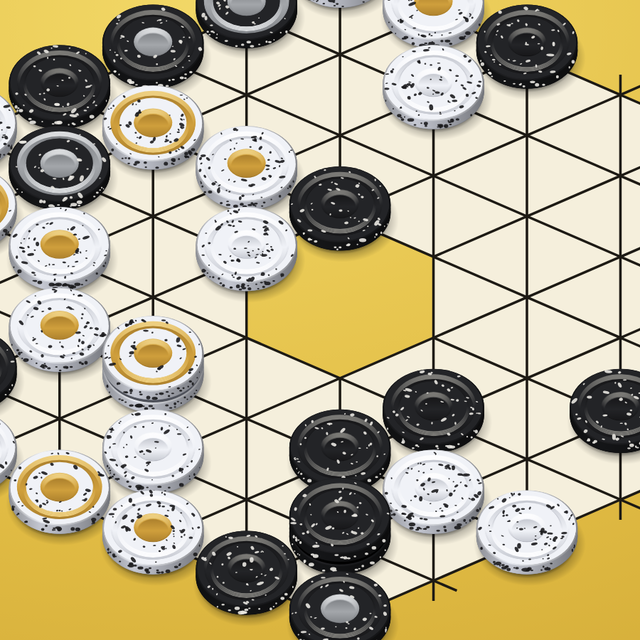
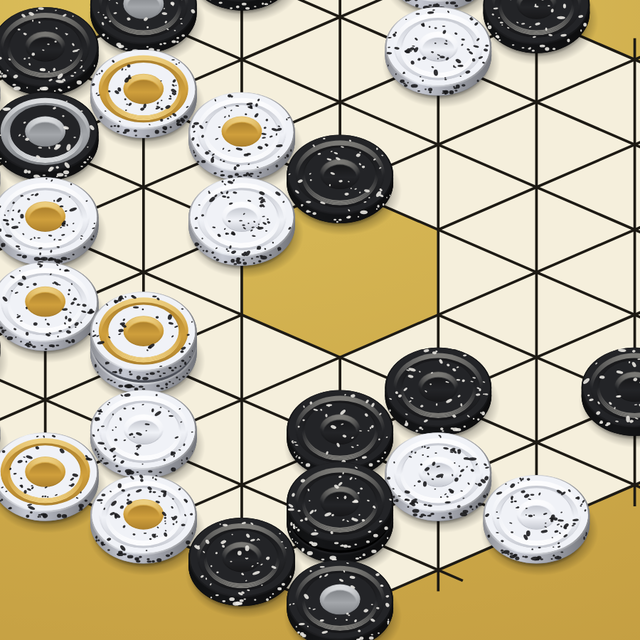
Settle TZAAR stacks before thinning them, and warm the table to the rulebook's sand
A stacking that takes a stack past the height limit now lands and bounces
at the full height, then shrinks to the limit, instead of the stack being
thinned the moment the moving pieces touch down. The table takes the sand
of the rulebook's cover, which photos show the board's own gold matches,
in place of a brighter lemon gold, and the cover is re-rendered on it. The
player cards drop their "on top" caption, which phones cut off.

Claude-Session: https://claude.ai/code/session_01T2Axx5HCwVKnkzeRZ5ZsuR

diff --git a/games/tzaar-ui/src/lib/animators/boardAnimator.svelte.ts b/games/tzaar-ui/src/lib/animators/boardAnimator.svelte.ts
@@ -12,7 +12,7 @@ import type { TzaarGameSession } from '$lib/model/session.svelte.js'
 import { boardDiff, spacesBetween, type StackMotion } from '$lib/board/boardDiff.js'
 import { coordsKey, type BoardView } from '$lib/board/geometry.js'
 import { FALL_EASE, GROUND_EASE, hopPlan, RISE_EASE } from '$lib/board/hop.js'
-import { restingLift } from '$lib/board/pieceGeometry.js'
+import { restingLift, type PieceModel } from '$lib/board/pieceGeometry.js'
 
 // A page load, a sync with the server or a switch of view shows the board as it is, unmoved.
 const ANIMATED_KINDS: ReadonlySet<TransitionKind> = new Set<TransitionKind>([
@@ -40,6 +40,10 @@ const BOUNCE = {
     along: [1, -0.4, 0],
     step: 0.08
 }
+const BOUNCE_TIME = BOUNCE.lift.reduce((total, { duration }) => total + duration, 0)
+// A stack grown past the full height settles at its new height, then shrinks to the full
+// height as the pieces between its bottom and top thin out.
+const SHRINK = { duration: 0.3, ease: 'power2.inOut' }
 // Landing on the board itself, the stack rebounds along the hop: past the space, back, forward.
 const REBOUND = { along: [2.4, -1.2, 0.45, 0], step: 0.07 }
 // A captured stack floats straight up as it fades, while the capturing stack hops in; its shadow
@@ -81,6 +85,8 @@ export class BoardAnimator {
     // up, so each animated action leaves the board as it ended until that state lands.
     stacks: DrawnStack[] = $derived.by(() => drawnStacks(this.session.gameState))
     flier: Flier | undefined = $state()
+    // The stack shrinking to the full height, and the height it stands at so far.
+    private shrinking: { key: string; cap: number } | undefined = $state()
 
     private readonly stackParts = new Map<string, Parts>()
     private flierParts: Parts = {}
@@ -190,6 +196,7 @@ export class BoardAnimator {
         animationContext.afterAnimations(() => {
             this.stacks = drawnStacks(to)
             this.flier = undefined
+            this.shrinking = undefined
             for (const node of touched) {
                 gsap.set(node, { x: 0, y: 0, scale: 1, opacity: 1 })
             }
@@ -292,16 +299,13 @@ export class BoardAnimator {
         const landed = at + plan.duration
         timeline.to({}, { duration: plan.duration, onUpdate: occlude }, at)
 
-        // A stack grown past the full height is thinned the moment it lands, so it does not
-        // bounce: the board takes over the whole stack at once.
-        const thinned =
-            moved.landingOn > 0 && moved.landingOn + moved.pieces.length > layout.model.cap
-        if (thinned) {
-            timeline.call(() => this.land(before, moved), undefined, landed)
-        }
-        if (!quick && !thinned) {
+        if (!quick) {
             if (plan.endLift === 0) this.rebound(node, offset, timeline, landed)
             else this.bounce(node, body, offset, plan.endLift, timeline, landed)
+        }
+        const { cap } = layout.model
+        if (moved.landingOn > 0 && moved.landingOn + moved.pieces.length > cap) {
+            this.shrink(before, moved, cap, timeline, quick ? landed : landed + BOUNCE_TIME, quick)
         }
         return landed
     }
@@ -312,6 +316,46 @@ export class BoardAnimator {
         for (const [use, { y, top }] of this.occluders) {
             use.style.display = y > groundY + 0.5 && lift > top ? '' : 'none'
         }
+    }
+
+    // Once the moving stack has settled, the board takes over the whole stack, drawn as tall as
+    // the two stood, and shrinks it to the full height; quickly, it is drawn thinned at once.
+    private shrink(
+        before: HydratedTzaarGameState,
+        moved: StackMotion,
+        cap: number,
+        timeline: Timeline,
+        at: number,
+        quick: boolean
+    ) {
+        const key = coordsKey(moved.to)
+        const height = { cap: quick ? cap : Math.min(moved.landingOn, cap) + moved.pieces.length }
+        timeline.call(
+            () => {
+                this.land(before, moved)
+                this.shrinking = { key, cap: height.cap }
+            },
+            undefined,
+            at
+        )
+        if (quick) return
+        timeline.to(
+            height,
+            {
+                cap,
+                ...SHRINK,
+                onUpdate: () => {
+                    this.shrinking = { key, cap: height.cap }
+                }
+            },
+            at
+        )
+    }
+
+    // The model a stack is drawn with: the board's, or while it shrinks, one at the height it
+    // has shrunk to. Other stacks keep the board's own model, so they are not redrawn.
+    modelAt(key: string, model: PieceModel): PieceModel {
+        return this.shrinking?.key === key ? { ...model, cap: this.shrinking.cap } : model
     }
 
     // The landed stack drawn whole on its space.

diff --git a/games/tzaar-ui/src/app.css b/games/tzaar-ui/src/app.css
@@ -40,10 +40,11 @@
 }
 
 :root {
-    /* The 2016 rulebook's golden sand, glowing lighter towards the middle. */
-    --tzaar-table-glow: #f2d867;
-    --tzaar-table: #e2bd45;
-    --tzaar-table-deep: #c49a2a;
+    /* The 2016 rulebook's golden sand, sampled from its cover (the board's own gold in photos
+       matches it), glowing lighter towards the middle. */
+    --tzaar-table-glow: #ddc15d;
+    --tzaar-table: #cca848;
+    --tzaar-table-deep: #b88f38;
     /* Controls and cards sit on cream like the play area's, lifted by a soft shadow. */
     --tzaar-panel: #f3ecd8;
     --tzaar-panel-edge: rgb(80 60 10 / 0.18);

diff --git a/games/tzaar-ui/src/lib/components/Board.svelte b/games/tzaar-ui/src/lib/components/Board.svelte
@@ -117,7 +117,7 @@
                     pieces={stack.pieces.map((piece) => session.shapeOf(piece))}
                     {radius}
                     prefix="tzaar-board"
-                    model={layout.model}
+                    model={animator.modelAt(stack.key, layout.model)}
                 >
                     <!-- A mark recolors a ring on the top piece, under the count, so the count
                          stays whole. The animator fades it with the move. -->

diff --git a/games/tzaar-ui/src/lib/components/PlayerTray.svelte b/games/tzaar-ui/src/lib/components/PlayerTray.svelte
@@ -49,7 +49,9 @@
                 <PieceIcon {tone} {kind} size={34} />
             </div>
         {/each}
-        <span class="caption">{placing ? 'left' : 'on top'}</span>
+        {#if placing}
+            <span class="caption">left</span>
+        {/if}
     </div>
 </div>
 

diff --git a/games/tzaar-ui/docs/ui-interaction-visual-contract.md b/games/tzaar-ui/docs/ui-interaction-visual-contract.md
@@ -19,12 +19,12 @@
 
 ## 3. Layer Responsibilities
 
-| Layer                                                 | Owns                                                                                                                                                                                                                                                                                                    | Allowed Inputs                                   | Must Not Own                |
-| ----------------------------------------------------- | ------------------------------------------------------------------------------------------------------------------------------------------------------------------------------------------------------------------------------------------------------------------------------------------------------- | ------------------------------------------------ | --------------------------- |
-| `TzaarGameSession`                                    | `placeable`, `kindsInHand`, `placingKind` (a tool-like choice kept between placements, not a staged step), `movable`, `chosenFrom`, `captureTargets`, `stackTargets`, staged selection; a tap commits a placement, capture or stacking; `pass()`                                                        | Game state, valid action types, staged selection | Styling                     |
-| `Board.svelte`                                        | Mark roles per space (destination over chosen over movable); hit targets above everything, sized to each stack                                                                                                                                                                                          | Session lists, animator's drawn stacks           | Deciding legality           |
-| `BoardAnimator` (`animators/boardAnimator.svelte.ts`) | Motion for committed actions: a placed piece dropping in; the moving stack hopping in an arc onto the space it captures, the captured stack floating up as it comes, and rebounding along the hop as it lands; or onto its own stack, with a small vertical bounce; the mark layer fading with the move | Transition kind, `from`/`to` states, the action  | Interaction state, legality |
-| `ActionPanel.svelte`                                  | One-line prompt on your turn with the Pass button or the type buttons, the last move otherwise                                                                                                                                                                                                          | Session state, history entries                   | Board marks                 |
+| Layer                                                 | Owns                                                                                                                                                                                                                                                                                                                                                                                                         | Allowed Inputs                                   | Must Not Own                |
+| ----------------------------------------------------- | ------------------------------------------------------------------------------------------------------------------------------------------------------------------------------------------------------------------------------------------------------------------------------------------------------------------------------------------------------------------------------------------------------------ | ------------------------------------------------ | --------------------------- |
+| `TzaarGameSession`                                    | `placeable`, `kindsInHand`, `placingKind` (a tool-like choice kept between placements, not a staged step), `movable`, `chosenFrom`, `captureTargets`, `stackTargets`, staged selection; a tap commits a placement, capture or stacking; `pass()`                                                                                                                                                             | Game state, valid action types, staged selection | Styling                     |
+| `Board.svelte`                                        | Mark roles per space (destination over chosen over movable); hit targets above everything, sized to each stack                                                                                                                                                                                                                                                                                               | Session lists, animator's drawn stacks           | Deciding legality           |
+| `BoardAnimator` (`animators/boardAnimator.svelte.ts`) | Motion for committed actions: a placed piece dropping in; the moving stack hopping in an arc onto the space it captures, the captured stack floating up as it comes, and rebounding along the hop as it lands; or onto its own stack, with a small vertical bounce, after which a stack grown past the height limit shrinks to it over 0.3 s (drawn at once when quick); the mark layer fading with the move | Transition kind, `from`/`to` states, the action  | Interaction state, legality |
+| `ActionPanel.svelte`                                  | One-line prompt on your turn with the Pass button or the type buttons, the last move otherwise                                                                                                                                                                                                                                                                                                               | Session state, history entries                   | Board marks                 |
 
 ## 4. Shared State Contracts
 
